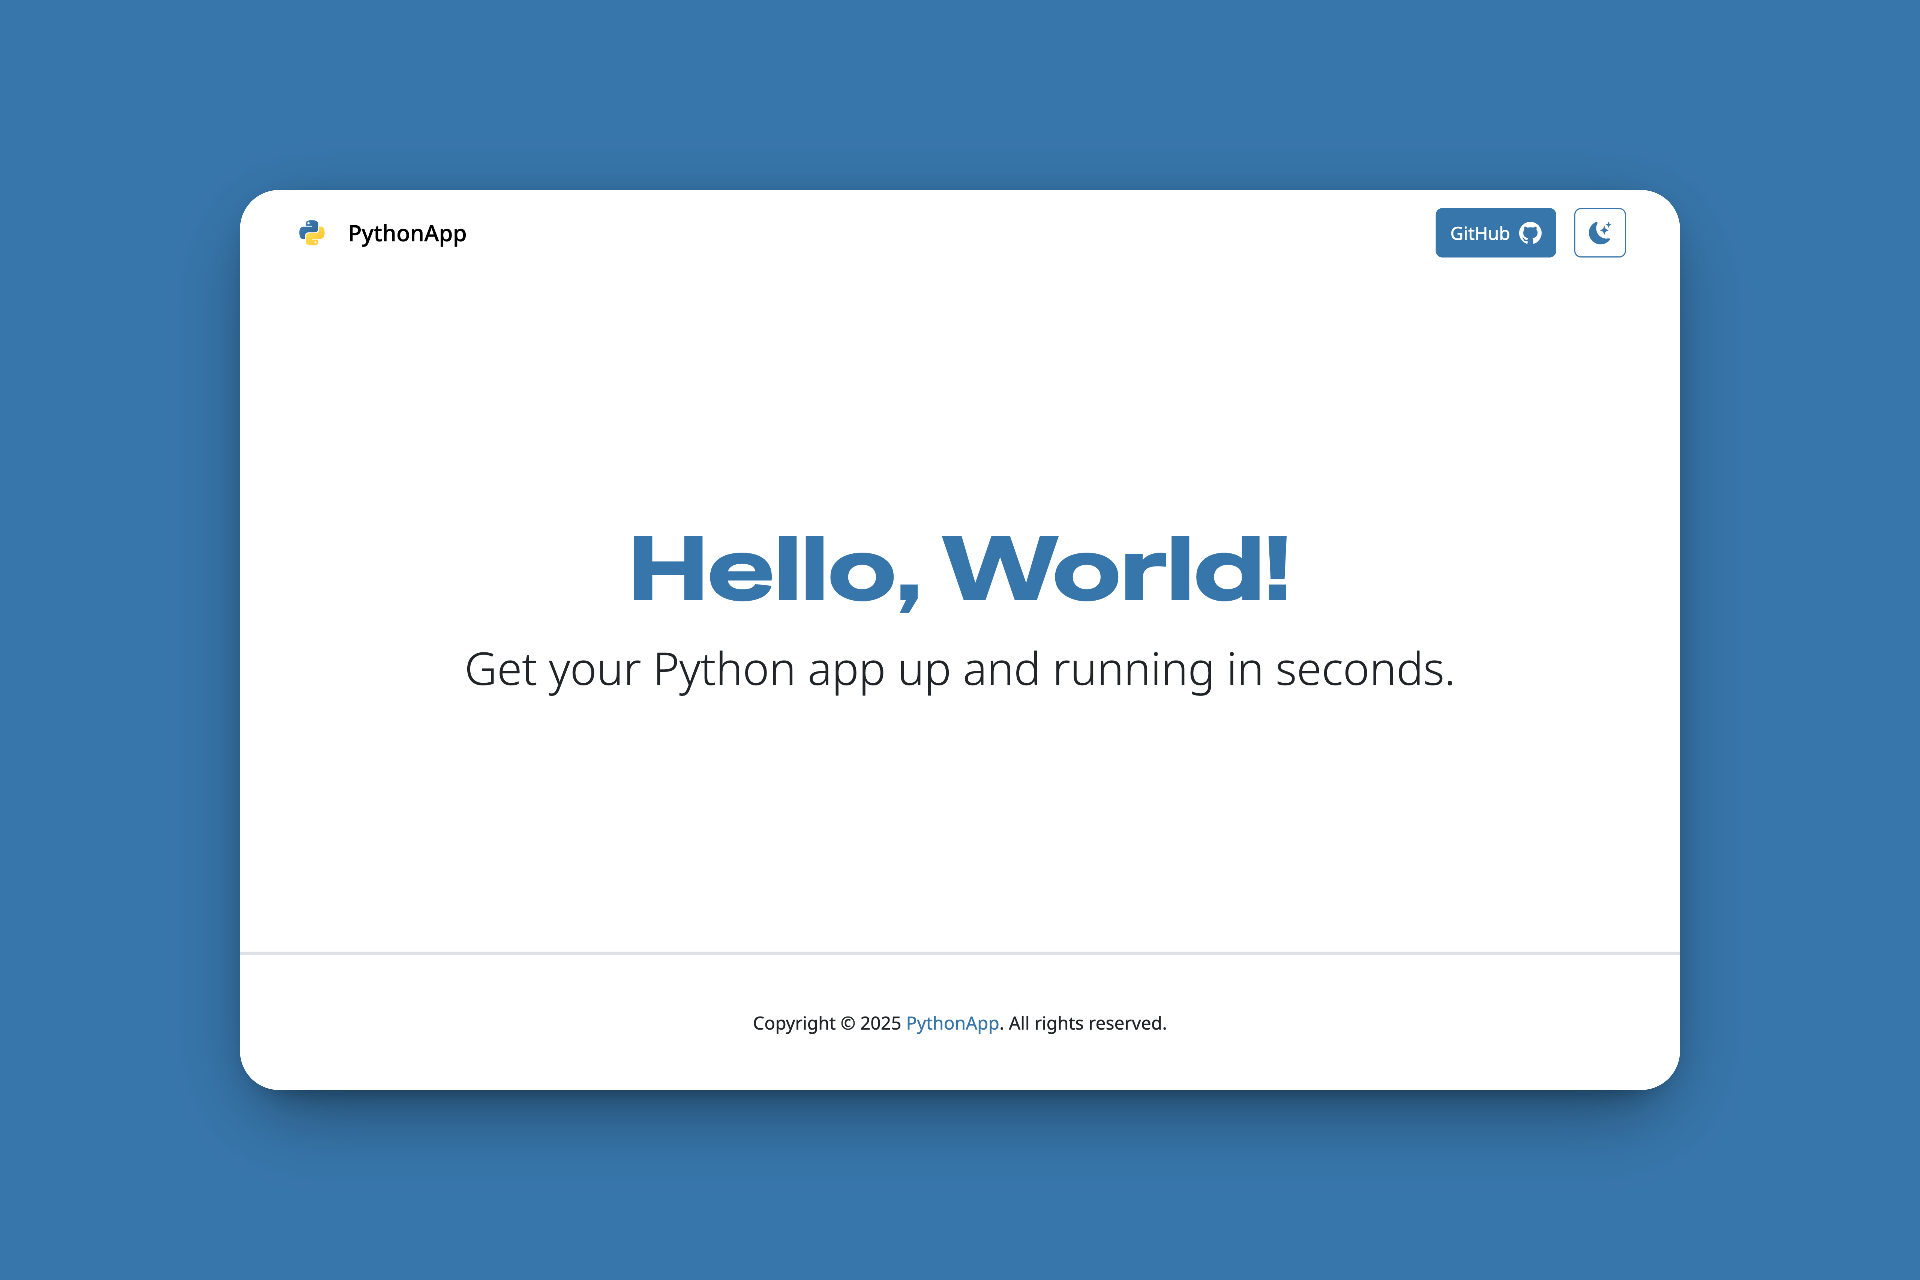
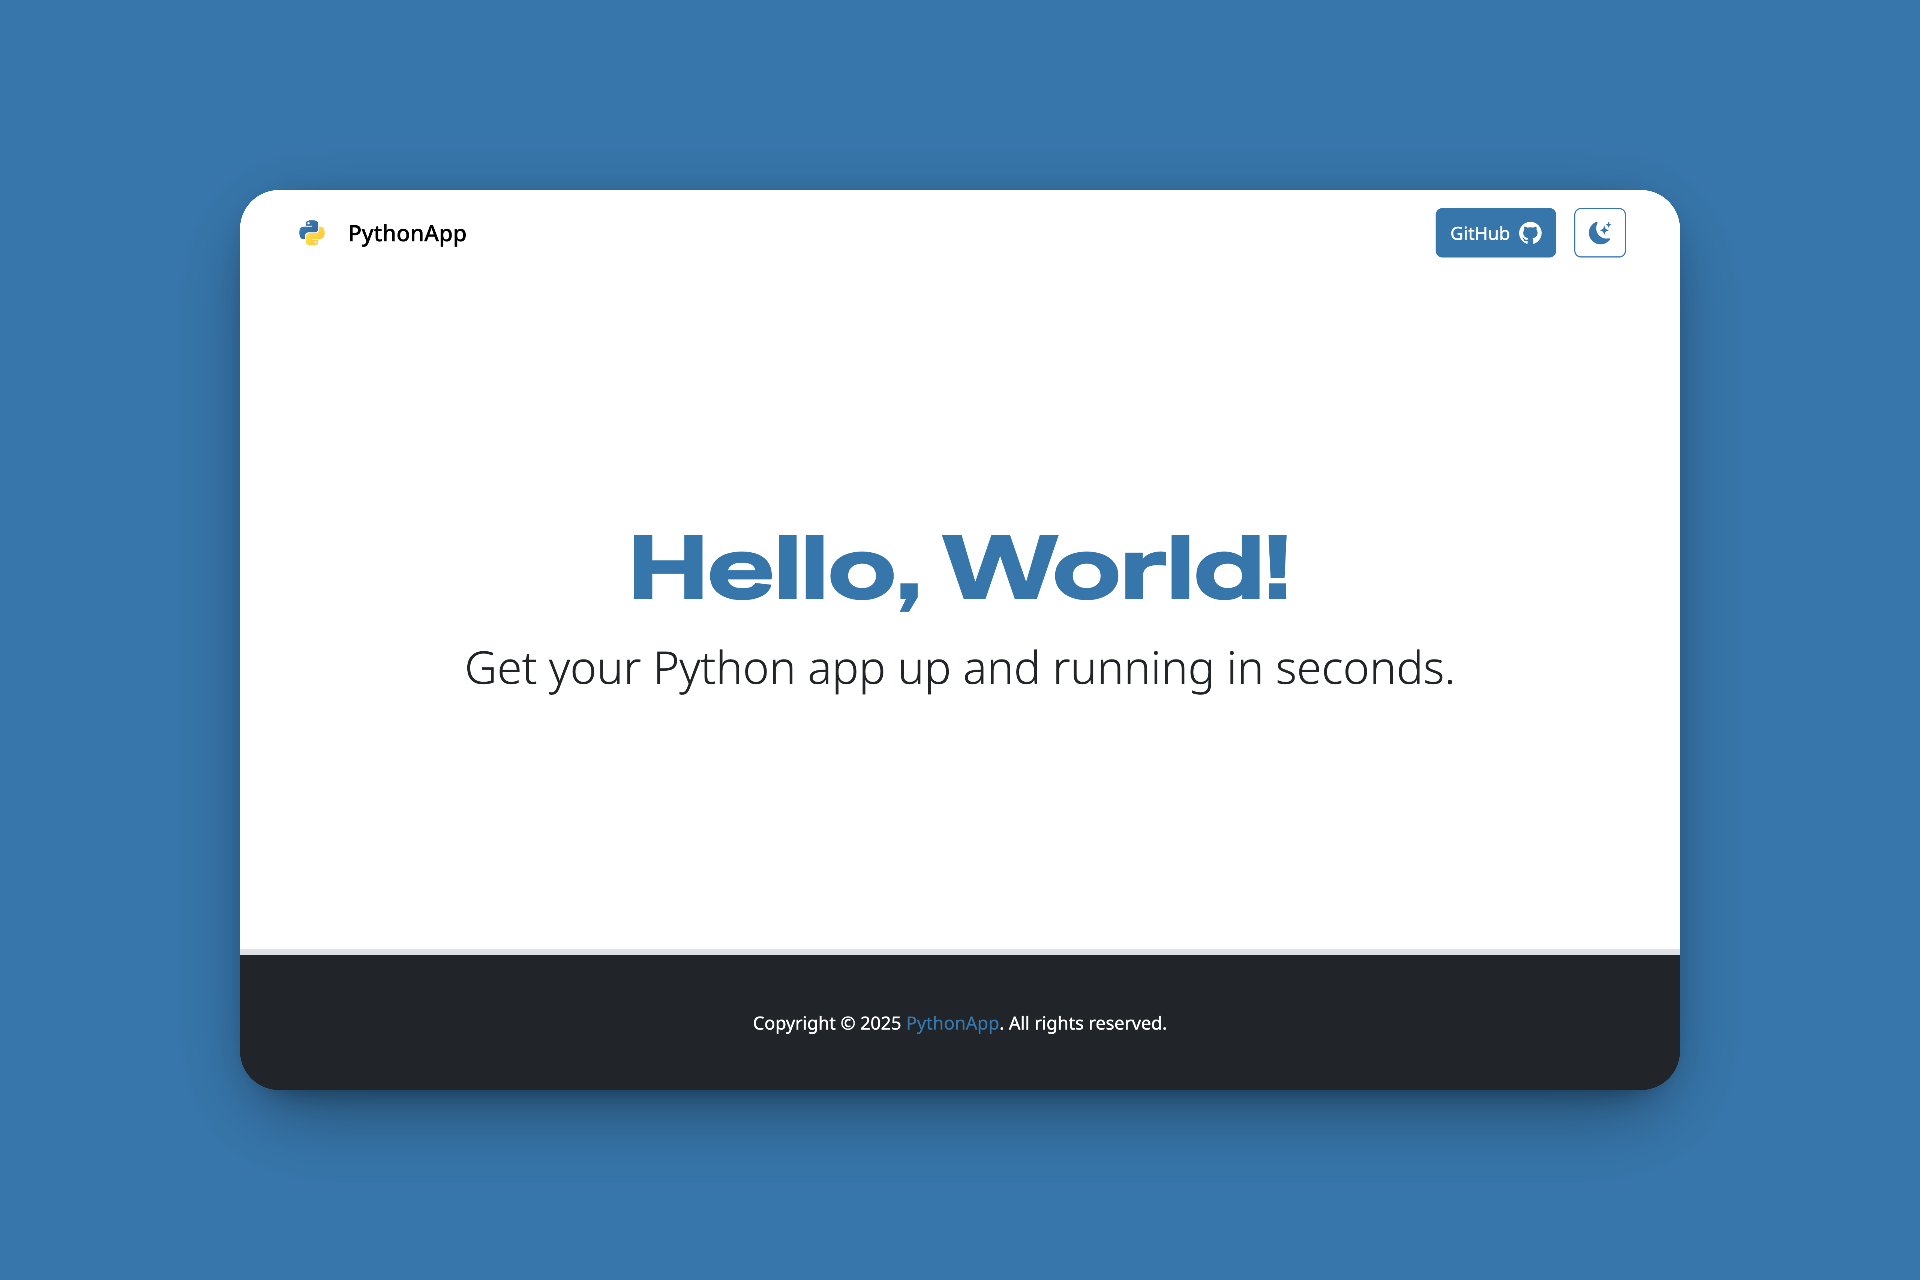
updates

Changed region(s): [[0.125, 0.7188, 0.875, 0.875], [0.375, 0.4375, 0.4062, 0.4688], [0.25, 0.5, 0.2812, 0.5312]]

diff --git a/app/templates/includes/footer.html b/app/templates/includes/footer.html
@@ -1,4 +1,4 @@
 <!-- Footer -->
-<footer class="footer w-100 p-5 text-center border-top border-5">
-    <span id="copyright">Copyright &copy; YYYY <span class="text-primary">{{ config.system.name }}</span>. All rights reserved.</span>
+<footer class="footer w-100 p-5 bg-dark text-center border-top border-5">
+    <span id="copyright" class="text-white">Copyright &copy; YYYY <span class="text-primary">{{ config.system.name }}</span>. All rights reserved.</span>
 </footer>
